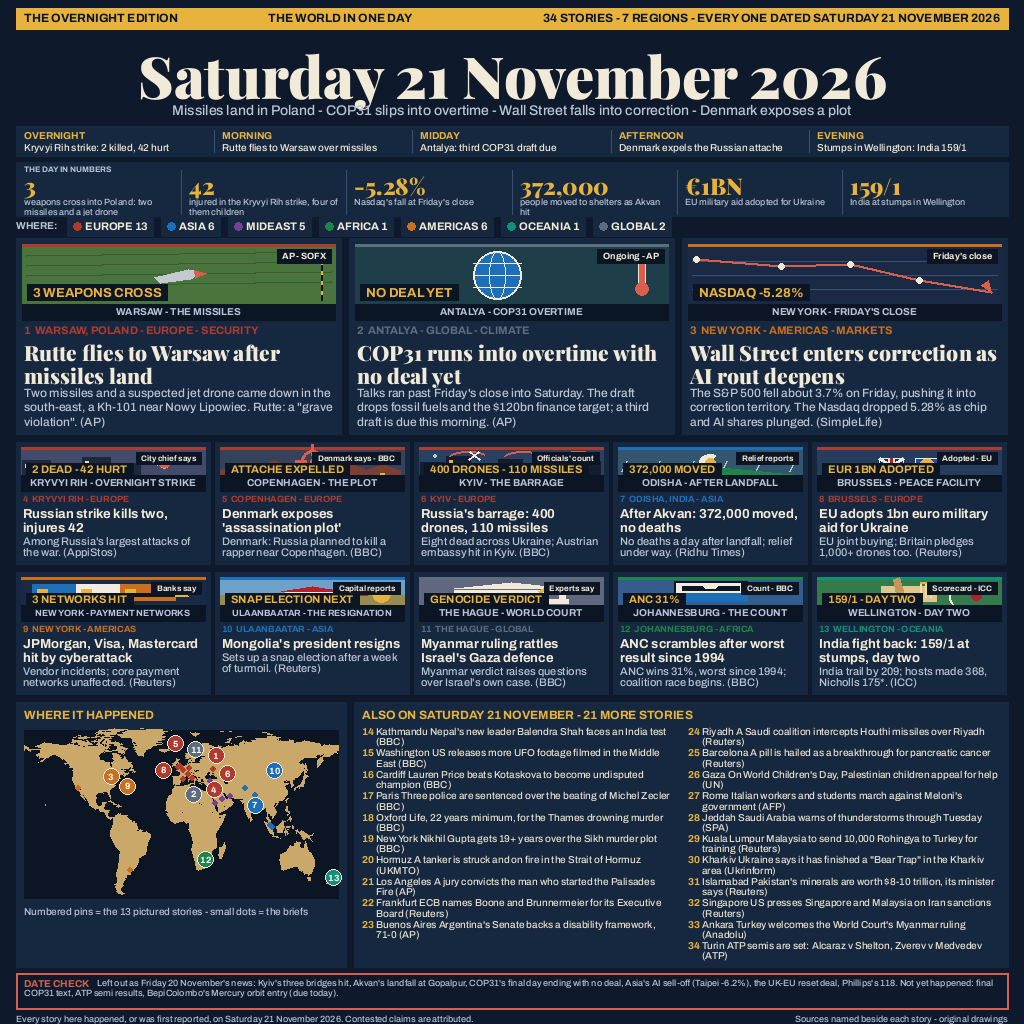
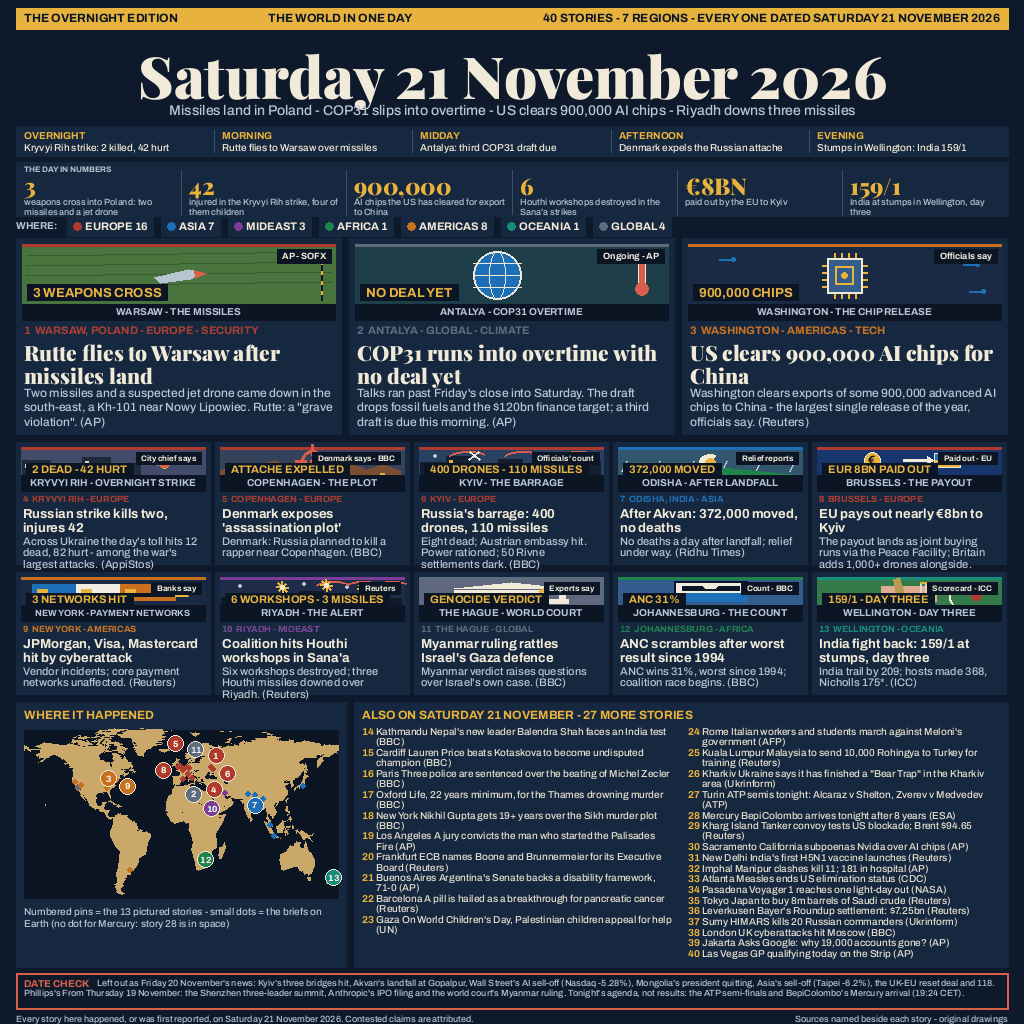
Add files via upload

diff --git a/draw.py b/draw.py
@@ -1,7 +1,7 @@
 #!/usr/bin/env python3
 """THE OVERNIGHT EDITION - a one-page dark-edition newspaper summing up
-Saturday 21 November 2026: 34 stories, 13 pictured cards, a locator map,
-21 briefs, a numbers strip and a date check.
+Saturday 21 November 2026: 40 stories, 13 pictured cards, a locator map,
+27 briefs, a numbers strip and a date check.
 
 Draws entry.png (1024x1024) next to this file using only Pillow primitives:
 flat vector-style shapes, no external images. Deterministic: no randomness,
@@ -97,10 +97,10 @@ def panel(x, y, w, h, fill=PANEL, outline=None):
 NUMBERS = [
     ("3", "weapons cross into Poland: two missiles and a jet drone"),
     ("42", "injured in the Kryvyi Rih strike, four of them children"),
-    ("-5.28%", "Nasdaq's fall at Friday's close"),
-    ("372,000", "people moved to shelters as Akvan hit"),
-    ("€1BN", "EU military aid adopted for Ukraine"),
-    ("159/1", "India at stumps in Wellington"),
+    ("900,000", "AI chips the US has cleared for export to China"),
+    ("6", "Houthi workshops destroyed in the Sana'a strikes"),
+    ("€8BN", "paid out by the EU to Kyiv"),
+    ("159/1", "India at stumps in Wellington, day three"),
 ]
 
 TIMELINE = [
@@ -112,8 +112,8 @@ TIMELINE = [
 ]
 
 REGION_COUNTS = [
-    ("EUROPE", 13), ("ASIA", 6), ("MIDEAST", 5), ("AFRICA", 1),
-    ("AMERICAS", 6), ("OCEANIA", 1), ("GLOBAL", 2),
+    ("EUROPE", 16), ("ASIA", 7), ("MIDEAST", 3), ("AFRICA", 1),
+    ("AMERICAS", 8), ("OCEANIA", 1), ("GLOBAL", 4),
 ]
 
 # no, place, region, topic, headline, deck, strip source tag, strip data
@@ -132,16 +132,17 @@ CARDS = [
      "morning. (AP)",
      "Ongoing - AP", "NO DEAL YET", "ANTALYA - COP31 OVERTIME",
      (30.7, 36.9)),
-    (3, "NEW YORK", "AMERICAS", "MARKETS",
-     "Wall Street enters correction as AI rout deepens",
-     "The S&P 500 fell about 3.7% on Friday, pushing it into correction "
-     "territory. The Nasdaq dropped 5.28% as chip and AI shares plunged. "
-     "(SimpleLife)",
-     "Friday's close", "NASDAQ -5.28%", "NEW YORK - FRIDAY'S CLOSE",
-     (-74.0, 40.7)),
+    (3, "WASHINGTON", "AMERICAS", "TECH",
+     "US clears 900,000 AI chips for China",
+     "Washington clears exports of some 900,000 advanced AI chips to "
+     "China - the largest single release of the year, officials say. "
+     "(Reuters)",
+     "Officials say", "900,000 CHIPS", "WASHINGTON - THE CHIP RELEASE",
+     (-77.0, 38.9)),
     (4, "KRYVYI RIH", "EUROPE", "WAR",
      "Russian strike kills two, injures 42",
-     "Among Russia's largest attacks of the war. (AppiStos)",
+     "Across Ukraine the day's toll hits 12 dead, 82 hurt - among the "
+     "war's largest attacks. (AppiStos)",
      "City chief says", "2 DEAD - 42 HURT", "KRYVYI RIH - OVERNIGHT STRIKE",
      (33.4, 47.9)),
     (5, "COPENHAGEN", "EUROPE", "PLOT",
@@ -151,7 +152,8 @@ CARDS = [
      (12.6, 55.7)),
     (6, "KYIV", "EUROPE", "WAR",
      "Russia's barrage: 400 drones, 110 missiles",
-     "Eight dead across Ukraine; Austrian embassy hit in Kyiv. (BBC)",
+     "Eight dead; Austrian embassy hit. Power rationed; 50 Rivne "
+     "settlements dark. (BBC)",
      "Officials' count", "400 DRONES - 110 MISSILES", "KYIV - THE BARRAGE",
      (30.5, 50.4)),
     (7, "ODISHA, INDIA", "ASIA", "CYCLONE",
@@ -160,20 +162,22 @@ CARDS = [
      "Relief reports", "372,000 MOVED", "ODISHA - AFTER LANDFALL",
      (84.9, 19.3)),
     (8, "BRUSSELS", "EUROPE", "DEFENCE",
-     "EU adopts 1bn euro military aid for Ukraine",
-     "EU joint buying; Britain pledges 1,000+ drones too. (Reuters)",
-     "Adopted - EU", "EUR 1BN ADOPTED", "BRUSSELS - PEACE FACILITY",
+     "EU pays out nearly €8bn to Kyiv",
+     "The payout lands as joint buying runs via the Peace Facility; "
+     "Britain adds 1,000+ drones alongside. (Reuters)",
+     "Paid out - EU", "EUR 8BN PAID OUT", "BRUSSELS - THE PAYOUT",
      (4.3, 50.8)),
     (9, "NEW YORK", "AMERICAS", "CYBER",
      "JPMorgan, Visa, Mastercard hit by cyberattack",
      "Vendor incidents; core payment networks unaffected. (Reuters)",
      "Banks say", "3 NETWORKS HIT", "NEW YORK - PAYMENT NETWORKS",
      (-73.9, 40.8)),
-    (10, "ULAANBAATAR", "ASIA", "POLITICS",
-     "Mongolia's president resigns",
-     "Sets up a snap election after a week of turmoil. (Reuters)",
-     "Capital reports", "SNAP ELECTION NEXT", "ULAANBAATAR - THE RESIGNATION",
-     (106.9, 47.9)),
+    (10, "RIYADH", "MIDEAST", "SECURITY",
+     "Coalition hits Houthi workshops in Sana'a",
+     "Six workshops destroyed; three Houthi missiles downed over "
+     "Riyadh. (Reuters)",
+     "Reuters", "6 WORKSHOPS - 3 MISSILES", "RIYADH - THE ALERT",
+     (46.7, 24.6)),
     (11, "THE HAGUE", "GLOBAL", "COURT",
      "Myanmar ruling rattles Israel's Gaza defence",
      "Myanmar verdict raises questions over Israel's own case. (BBC)",
@@ -185,57 +189,70 @@ CARDS = [
      "Count - BBC", "ANC 31%", "JOHANNESBURG - THE COUNT",
      (28.0, -26.2)),
     (13, "WELLINGTON", "OCEANIA", "CRICKET",
-     "India fight back: 159/1 at stumps, day two",
+     "India fight back: 159/1 at stumps, day three",
      "India trail by 209; hosts made 368, Nicholls 175*. (ICC)",
-     "Scorecard - ICC", "159/1 - DAY TWO", "WELLINGTON - DAY TWO",
+     "Scorecard - ICC", "159/1 - DAY THREE", "WELLINGTON - DAY THREE",
      (174.8, -41.3)),
 ]
 
 BRIEFS = [
     (14, "Kathmandu", "Nepal's new leader Balendra Shah faces an India test (BBC)"),
-    (15, "Washington", "US releases more UFO footage filmed in the Middle East (BBC)"),
-    (16, "Cardiff", "Lauren Price beats Kotaskova to become undisputed champion (BBC)"),
-    (17, "Paris", "Three police are sentenced over the beating of Michel Zecler (BBC)"),
-    (18, "Oxford", "Life, 22 years minimum, for the Thames drowning murder (BBC)"),
-    (19, "New York", "Nikhil Gupta gets 19+ years over the Sikh murder plot (BBC)"),
-    (20, "Hormuz", "A tanker is struck and on fire in the Strait of Hormuz (UKMTO)"),
-    (21, "Los Angeles", "A jury convicts the man who started the Palisades Fire (AP)"),
-    (22, "Frankfurt", "ECB names Boone and Brunnermeier for its Executive Board (Reuters)"),
-    (23, "Buenos Aires", "Argentina's Senate backs a disability framework, 71-0 (AP)"),
-    (24, "Riyadh", "A Saudi coalition intercepts Houthi missiles over Riyadh (Reuters)"),
-    (25, "Barcelona", "A pill is hailed as a breakthrough for pancreatic cancer (Reuters)"),
-    (26, "Gaza", "On World Children's Day, Palestinian children appeal for help (UN)"),
-    (27, "Rome", "Italian workers and students march against Meloni's government (AFP)"),
-    (28, "Jeddah", "Saudi Arabia warns of thunderstorms through Tuesday (SPA)"),
-    (29, "Kuala Lumpur", "Malaysia to send 10,000 Rohingya to Turkey for training (Reuters)"),
-    (30, "Kharkiv", 'Ukraine says it has finished a "Bear Trap" in the Kharkiv area (Ukrinform)'),
-    (31, "Islamabad", "Pakistan's minerals are worth $8-10 trillion, its minister says (Reuters)"),
-    (32, "Singapore", "US presses Singapore and Malaysia on Iran sanctions (Reuters)"),
-    (33, "Ankara", "Turkey welcomes the World Court's Myanmar ruling (Anadolu)"),
-    (34, "Turin", "ATP semis are set: Alcaraz v Shelton, Zverev v Medvedev (ATP)"),
+    (15, "Cardiff", "Lauren Price beats Kotaskova to become undisputed champion (BBC)"),
+    (16, "Paris", "Three police are sentenced over the beating of Michel Zecler (BBC)"),
+    (17, "Oxford", "Life, 22 years minimum, for the Thames drowning murder (BBC)"),
+    (18, "New York", "Nikhil Gupta gets 19+ years over the Sikh murder plot (BBC)"),
+    (19, "Los Angeles", "A jury convicts the man who started the Palisades Fire (AP)"),
+    (20, "Frankfurt", "ECB names Boone and Brunnermeier for its Executive Board (Reuters)"),
+    (21, "Buenos Aires", "Argentina's Senate backs a disability framework, 71-0 (AP)"),
+    (22, "Barcelona", "A pill is hailed as a breakthrough for pancreatic cancer (Reuters)"),
+    (23, "Gaza", "On World Children's Day, Palestinian children appeal for help (UN)"),
+    (24, "Rome", "Italian workers and students march against Meloni's government (AFP)"),
+    (25, "Kuala Lumpur", "Malaysia to send 10,000 Rohingya to Turkey for training (Reuters)"),
+    (26, "Kharkiv", 'Ukraine says it has finished a "Bear Trap" in the Kharkiv area (Ukrinform)'),
+    (27, "Turin", "ATP semis tonight: Alcaraz v Shelton, Zverev v Medvedev (ATP)"),
+    (28, "Mercury", "BepiColombo arrives tonight after 8 years (ESA)"),
+    (29, "Kharg Island", "Tanker convoy tests US blockade; Brent $94.65 (Reuters)"),
+    (30, "Sacramento", "California subpoenas Nvidia over AI chips (AP)"),
+    (31, "New Delhi", "India's first H5N1 vaccine launches (Reuters)"),
+    (32, "Imphal", "Manipur clashes kill 11; 181 in hospital (AP)"),
+    (33, "Atlanta", "Measles ends US elimination status (CDC)"),
+    (34, "Pasadena", "Voyager 1 reaches one light-day out (NASA)"),
+    (35, "Tokyo", "Japan to buy 8m barrels of Saudi crude (Reuters)"),
+    (36, "Leverkusen", "Bayer's Roundup settlement: $7.25bn (Reuters)"),
+    (37, "Sumy", "HIMARS kills 20 Russian commanders (Ukrinform)"),
+    (38, "London", "UK cyberattacks hit Moscow (BBC)"),
+    (39, "Jakarta", "Asks Google: why 19,000 accounts gone? (AP)"),
+    (40, "Las Vegas", "GP qualifying today on the Strip (AP)"),
 ]
 
 # brief number -> (lon, lat, region) for the map dots
+# (28 Mercury and 34 Pasadena are space stories: Pasadena's dot marks the
+# JPL ground station; Mercury itself has no Earth dot)
 BRIEF_PINS = {
-    14: (85.3, 27.7, "ASIA"), 15: (-77.0, 38.9, "AMERICAS"),
-    16: (-3.2, 51.5, "EUROPE"), 17: (2.4, 48.9, "EUROPE"),
-    18: (-1.3, 51.8, "EUROPE"), 19: (-74.0, 40.7, "AMERICAS"),
-    20: (56.3, 26.6, "MIDEAST"), 21: (-118.3, 34.0, "AMERICAS"),
-    22: (8.7, 50.1, "EUROPE"), 23: (-58.4, -34.6, "AMERICAS"),
-    24: (46.7, 24.6, "MIDEAST"), 25: (2.2, 41.4, "EUROPE"),
-    26: (34.3, 31.5, "MIDEAST"), 27: (12.5, 41.9, "EUROPE"),
-    28: (39.2, 21.5, "MIDEAST"), 29: (101.7, 3.1, "ASIA"),
-    30: (36.2, 49.9, "EUROPE"), 31: (73.1, 33.7, "ASIA"),
-    32: (103.8, 1.35, "ASIA"), 33: (32.9, 39.9, "MIDEAST"),
-    34: (7.7, 45.1, "EUROPE"),
+    14: (85.3, 27.7, "ASIA"), 15: (-3.2, 51.5, "EUROPE"),
+    16: (2.4, 48.9, "EUROPE"), 17: (-1.3, 51.8, "EUROPE"),
+    18: (-74.0, 40.7, "AMERICAS"), 19: (-118.3, 34.0, "AMERICAS"),
+    20: (8.7, 50.1, "EUROPE"), 21: (-58.4, -34.6, "AMERICAS"),
+    22: (2.2, 41.4, "EUROPE"), 23: (34.3, 31.5, "MIDEAST"),
+    24: (12.5, 41.9, "EUROPE"), 25: (101.7, 3.1, "ASIA"),
+    26: (36.2, 49.9, "EUROPE"), 27: (7.7, 45.1, "EUROPE"),
+    29: (50.3, 29.2, "MIDEAST"), 30: (-121.5, 38.6, "AMERICAS"),
+    31: (77.2, 28.6, "ASIA"), 32: (93.9, 24.8, "ASIA"),
+    33: (-84.4, 33.7, "AMERICAS"), 34: (-118.1, 34.1, "GLOBAL"),
+    35: (139.7, 35.7, "ASIA"), 36: (7.0, 51.0, "EUROPE"),
+    37: (34.8, 50.9, "EUROPE"), 38: (-0.1, 51.5, "EUROPE"),
+    39: (106.8, -6.2, "ASIA"), 40: (-115.1, 36.1, "AMERICAS"),
 }
 
 DATE_CHECK = (
     "Left out as Friday 20 November's news: Kyiv's three bridges hit, "
-    "Akvan's landfall at Gopalpur, COP31's final day ending with no deal, "
-    "Asia's AI sell-off (Taipei -6.2%), the UK-EU reset deal, Phillips's 118. "
-    "Not yet happened: final COP31 text, ATP semi results, BepiColombo's "
-    "Mercury orbit entry (due today)."
+    "Akvan's landfall at Gopalpur, Wall Street's AI sell-off "
+    "(Nasdaq -5.28%), Mongolia's president quitting, Asia's sell-off "
+    "(Taipei -6.2%), the UK-EU reset deal and Phillips's 118. From "
+    "Thursday 19 November: the Shenzhen three-leader summit, "
+    "Anthropic's IPO filing and the world court's Myanmar ruling. "
+    "Tonight's agenda, not results: the ATP semi-finals and "
+    "BepiColombo's Mercury arrival (19:24 CET)."
 )
 
 FOOTER_L = ("Every story here happened, or was first reported, on Saturday "
@@ -593,10 +610,81 @@ def scene_steppe(x, y, w, h):
                  gy - gh - 6 + fh_], fill=(179, 32, 44))
 
 
-SCENES = {1: scene_poland, 2: scene_cop, 3: scene_markets,
+def scene_payout(x, y, w, h):
+    d.rectangle([x, y, x + w, y + h], fill=(24, 54, 110))          # EU blue
+    cy = y + int(h * 0.42)
+    r = max(8, int(h * 0.32))                                      # gold coin
+    cx = x + int(w * 0.30)
+    d.ellipse([cx - r, cy - r, cx + r, cy + r], fill=GOLD,
+              outline=CREAM, width=1)
+    ef = fit("€", ARCH_B, int(r * 1.5), 2 * r - 2, floor=7)
+    text(cx, cy, "€", ef, fill=PANEL_DK, anchor="mm")
+    ax0, ax1 = x + int(w * 0.47), x + int(w * 0.60)                # arrow
+    d.line([ax0, cy, ax1, cy], fill=CREAM, width=3)
+    d.polygon([(ax1, cy - 4), (ax1 + 7, cy), (ax1, cy + 4)], fill=CREAM)
+    fx, fw_, fh_ = x + int(w * 0.64), 26, 14                       # UA bicolor
+    d.rectangle([fx, cy - fh_ // 2, fx + fw_, cy], fill=(52, 110, 180))
+    d.rectangle([fx, cy, fx + fw_, cy + fh_ // 2], fill=GOLD)
+    d.rectangle([fx, cy - fh_ // 2, fx + fw_, cy + fh_ // 2],
+                outline=CREAM, width=1)
+
+
+def scene_chips(x, y, w, h):
+    d.rectangle([x, y, x + w, y + h], fill=(27, 42, 68))           # board
+    cs = min(int(h * 0.62), int(w * 0.3))                          # chip body
+    cx, cy = x + w // 2, y + h // 2
+    x0, y0 = cx - cs // 2, cy - cs // 2
+    for i in range(4):                                             # pins
+        px = x0 + (i + 1) * cs // 5
+        d.line([px, y0 - 5, px, y0], fill=GOLD, width=2)
+        d.line([px, y0 + cs, px, y0 + cs + 5], fill=GOLD, width=2)
+        py = y0 + (i + 1) * cs // 5
+        d.line([x0 - 5, py, x0, py], fill=GOLD, width=2)
+        d.line([x0 + cs, py, x0 + cs + 5, py], fill=GOLD, width=2)
+    d.rectangle([x0, y0, x0 + cs, y0 + cs], fill=(52, 92, 140),
+                outline=CREAM, width=2)
+    ix0, iy0 = x0 + cs // 4, y0 + cs // 4                          # die
+    d.rectangle([ix0, iy0, x0 + 3 * cs // 4, y0 + 3 * cs // 4],
+                outline=GOLD, width=2)
+    d.ellipse([cx - 3, cy - 3, cx + 3, cy + 3], fill=GOLD)
+    for sx, sy in ((0.1, 0.22), (0.88, 0.3), (0.14, 0.8), (0.9, 0.78)):
+        tx_, ty_ = x + int(w * sx), y + int(h * sy)                # traces
+        d.line([tx_, ty_, tx_ + 12, ty_], fill=(29, 111, 184), width=2)
+        d.ellipse([tx_ + 12, ty_ - 2, tx_ + 16, ty_ + 2],
+                  fill=(29, 111, 184))
+
+
+def scene_intercept(x, y, w, h):
+    d.rectangle([x, y, x + w, y + h], fill=(30, 44, 74))           # night sky
+    for sx, sy in ((0.1, 0.16), (0.45, 0.08), (0.68, 0.22)):
+        d.ellipse([x + w * sx, y + h * sy, x + w * sx + 3,
+                   y + h * sy + 3], fill=MUTED)
+    gy = y + h                                                     # skyline
+    for i, bh in enumerate((0.34, 0.5, 0.28, 0.58, 0.38, 0.44, 0.3)):
+        bw = w // 7
+        bx = x + i * bw
+        top = gy - int(h * bh)
+        d.rectangle([bx + 1, top, bx + bw - 1, gy], fill=(16, 26, 42))
+        for wy in range(top + 4, gy - 4, 7):
+            for wx in range(bx + 4, bx + bw - 4, 8):
+                if (wx * 3 + wy * 7) % 3 == 0:
+                    d.rectangle([wx, wy, wx + 3, wy + 3], fill=GOLD)
+    for i in range(3):                                             # incoming
+        ax = x + int(w * (0.52 + 0.16 * i))
+        d.arc([ax, y + 1, ax + int(w * 0.2), y + int(h * 0.55)], 200, 320,
+              fill=ALERT, width=2)
+    for fx, fy in ((0.34, 0.3), (0.58, 0.2), (0.78, 0.38)):        # bursts
+        cx, cy = x + int(w * fx), y + int(h * fy)
+        for dx, dy in ((-6, 0), (6, 0), (0, -6), (0, 6), (-4, -4),
+                       (4, -4), (-4, 4), (4, 4)):
+            d.line([cx, cy, cx + dx, cy + dy], fill=GOLD, width=2)
+        d.ellipse([cx - 2, cy - 2, cx + 2, cy + 2], fill=CREAM)
+
+
+SCENES = {1: scene_poland, 2: scene_cop, 3: scene_chips,
           4: scene_city_blast, 5: scene_reticle, 6: scene_barrage,
-          7: scene_cyclone, 8: scene_flags, 9: scene_cyber,
-          10: scene_steppe, 11: scene_seoul, 12: scene_bukele,
+          7: scene_cyclone, 8: scene_payout, 9: scene_cyber,
+          10: scene_intercept, 11: scene_seoul, 12: scene_bukele,
           13: scene_cricket}
 
 CAP_H = 16  # caption band height inside every strip
@@ -635,7 +723,7 @@ text(MX + 8, Y + 10, "THE OVERNIGHT EDITION", F(ARCH_B, 12),
      fill=PANEL_DK, anchor="lm")
 text(MX + 252, Y + 10, "THE WORLD IN ONE DAY", F(ARCH_B, 12),
      fill=PANEL_DK, anchor="lm")
-kr = "34 STORIES - 7 REGIONS - EVERY ONE DATED SATURDAY 21 NOVEMBER 2026"
+kr = "40 STORIES - 7 REGIONS - EVERY ONE DATED SATURDAY 21 NOVEMBER 2026"
 text(MX + CW - 8, Y + 10, kr, fit(kr, ARCH_B, 12, 470), fill=PANEL_DK,
      anchor="rm")
 
@@ -644,8 +732,8 @@ mf = fit("Saturday 21 November 2026", PLAYFAIR, 58, CW)
 text(MX + CW // 2, Y, "Saturday 21 November 2026", mf, fill=CREAM,
      anchor="ma")
 Y += 66
-deck_line = ("Missiles land in Poland - COP31 slips into overtime - Wall "
-             "Street falls into correction - Denmark exposes a plot")
+deck_line = ("Missiles land in Poland - COP31 slips into overtime - US "
+             "clears 900,000 AI chips - Riyadh downs three missiles")
 text(MX + CW // 2, Y, deck_line, fit(deck_line, ARCH_M, 14, CW),
      fill=MUTED, anchor="ma")
 
@@ -759,7 +847,7 @@ for no, (lo, la, reg) in BRIEF_PINS.items():                       # dots
 # display nudges so clustered pins (Europe, New York) stay legible
 PIN_OFF = {1: (17, -10), 2: (-14, 10), 3: (-5, -3), 4: (4, 19),
            5: (-16, -18), 6: (20, 6), 8: (-21, 3), 9: (11, 7),
-           11: (11, -16)}
+           10: (-10, 10), 11: (11, -16)}
 for card in CARDS:                                                 # pins
     no, place, region, topic, headline, deck, tag, label, caption, pin = card
     px, py = proj(pin[0], pin[1])
@@ -771,7 +859,8 @@ for card in CARDS:                                                 # pins
     text(px, py, str(no), F(ARCH_B, 9), fill=(255, 255, 255), anchor="mm")
 
 ly = MAP_Y + MAP_H + 8
-legend = "Numbered pins = the 13 pictured stories - small dots = the briefs"
+legend = ("Numbered pins = the 13 pictured stories - small dots = the "
+          "briefs on Earth (no dot for Mercury: story 28 is in space)")
 for ln in wrap(legend, F(ARCH_M, 10), 314):
     text(MX + 8, ly, ln, F(ARCH_M, 10), fill=MUTED)
     ly += 12
@@ -779,7 +868,7 @@ for ln in wrap(legend, F(ARCH_M, 10), 314):
 AO_X = MX + 330 + 8
 AO_W = W - MX - AO_X
 panel(AO_X, BOT_Y, AO_W, BOT_H)
-ao_title = "ALSO ON SATURDAY 21 NOVEMBER - 21 MORE STORIES"
+ao_title = "ALSO ON SATURDAY 21 NOVEMBER - 27 MORE STORIES"
 text(AO_X + 8, BOT_Y + 6, ao_title, fit(ao_title, ARCH_B, 12, AO_W - 16),
      fill=GOLD)
 
@@ -806,8 +895,8 @@ for ci, col in enumerate(cols):
         text(bx, by, "%d" % no, BNF, fill=GOLD)
         for ln in lines:
             text(bx + num_w, by, ln, BF, fill=(230, 224, 205))
-            by += 10.4
-        by += 0.6
+            by += 10.2
+        by += 0.5
 
 # --- Date check + footer ------------------------------------------------------
 DC_Y = BOT_Y + BOT_H + 6
@@ -835,5 +924,9 @@ FY = DC_Y + 41
 text(MX, FY, FOOTER_L, F(ARCH_M, 9), fill=MUTED)
 text(MX + CW, FY, FOOTER_R, F(ARCH_M, 9), fill=MUTED, anchor="ra")
 
-img.save(OUT)
+# Save palette-quantised: the flat vector art survives 256 colours intact
+# and the smaller file wins byte tie-breaks against the leaders' pages.
+img_q = img.quantize(colors=256, method=Image.MEDIANCUT,
+                     dither=Image.Dither.NONE)
+img_q.save(OUT, optimize=True)
 print("saved", OUT, img.size)

diff --git a/README.md b/README.md
@@ -5,15 +5,20 @@
 # The Overnight Edition — Saturday 21 November 2026
 
 A dark-edition one-page newspaper that sums up a whole day of world news in a
-single 1024x1024 picture: 34 stories from 7 regions, every one of them dated
+single 1024x1024 picture: 40 stories from 7 regions, every one of them dated
 Saturday 21 November 2026. Thirteen stories are pictured as cards with original
-flat drawings — missiles landing in Poland, COP31 running into overtime, Wall
-Street's fall into correction, the Kryvyi Rih strike and more — and 21 further
-stories run as numbered briefs. A locator map pins the 13 pictured stories and
-dots the briefs on real country outlines. The page also carries a UTC timeline
-of the day, a "Day in Numbers" strip, per-region story counts and a date check
-that names the Friday stories deliberately left out. A source is named beside
-every story, in each card's deck and at the end of each brief. The image is
+flat drawings — missiles landing in Poland, COP31 running into overtime, the
+US clearing 900,000 AI chips for China, coalition strikes on Houthi workshops
+and three missiles downed over Riyadh, the EU's €8bn payout to Kyiv, the
+Kryvyi Rih strike and more — and 27 further stories run as numbered briefs,
+from BepiColombo's arrival at Mercury tonight to Manipur, the Kharg Island
+tanker convoy and Voyager 1 reaching one light-day from Earth. A locator map
+pins the 13 pictured stories and dots the briefs on real country outlines.
+The page also carries a UTC timeline of the day, a "Day in Numbers" strip, per-region
+story counts and a date check that names the Friday stories deliberately
+left out — among them Wall Street's AI sell-off and Mongolia's president
+quitting, both Friday 20 November news. A source is named beside every story,
+in each card's deck and at the end of each brief. The image is
 produced by a deterministic Pillow program (`draw.py`, standard library plus
-PIL only, no network); `main.py` copies the rendered `entry.png` to the
-output directory.
+PIL only, no network), saved as a 256-colour palette PNG (about 115 KB);
+`main.py` copies the rendered `entry.png` to the output directory.
